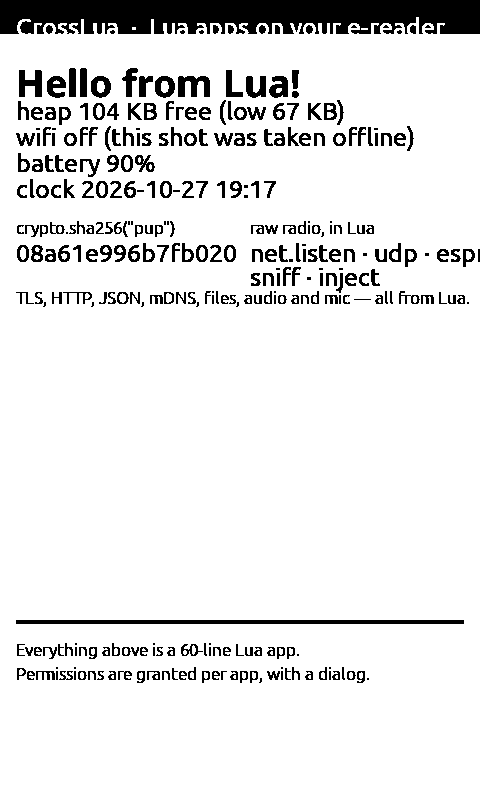
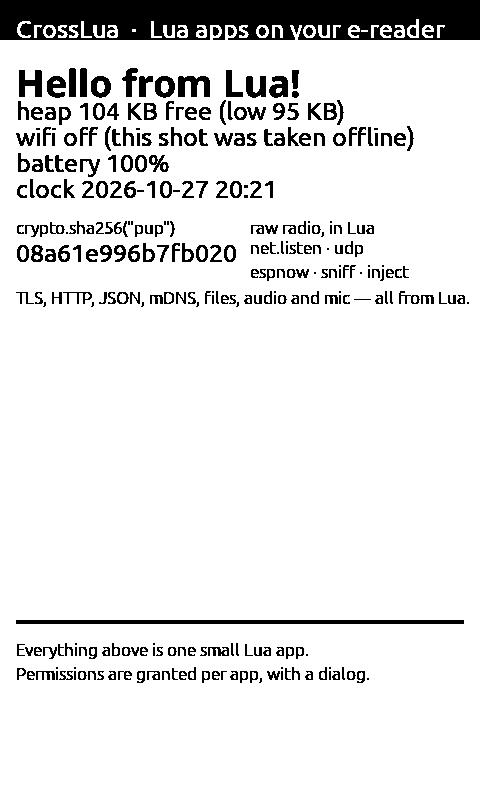
docs: README credits — add Grimoire (the Lua precedent, no license file), drop the nano² mention
Grimoire (SynnBunn/Grimoire) is what proved Lua belongs on this hardware; our net.* surface targets Grimoire parity and we ship a
pure-Lua compat shim. It has no license file: inspiration only, no code copied. The nano² bullet was wrong — that binding was never
committed (no lock_status anywhere in git history, no files on disk); removed. The demo app screenshot is re-shot with the right
column in the small font (the ui12 lines ran to the screen edge) and a taller header band.

diff --git a/src/activities/plugins/LuaAppActivity.cpp b/src/activities/plugins/LuaAppActivity.cpp
@@ -8,6 +8,7 @@
 #include <Microphone.h>
 #include <atomic>
 #include <esp_now.h>
+#include <esp_sleep.h>
 #include <esp_timer.h>
 #include <esp_wifi.h>
 #include <SecureClient.h>
@@ -264,6 +265,30 @@ class LuaAppActivity::Backend final : public crosslua::Backend {
 
   uint32_t millis() override { return ::millis(); }
   size_t radioFloorBytes() override { return radioEverStarted_ ? 48 * 1024 : 80 * 1024; }
+  const char* wakeCause() override {
+    switch (wakeCause_) {
+      case ESP_SLEEP_WAKEUP_TIMER: return "timer";
+      case ESP_SLEEP_WAKEUP_EXT0:
+      case ESP_SLEEP_WAKEUP_EXT1:
+      case ESP_SLEEP_WAKEUP_GPIO: return "button";
+      case ESP_SLEEP_WAKEUP_UNDEFINED: return "power-on";
+      default: return "other";
+    }
+  }
+  bool systemSleep(int seconds, char* err, size_t errCap) override {
+    // Arm the timer wake, then hand over to upstream's own sleep flow (sleep screen, plugin events, WiFi teardown, rail
+    // power-down, power-button wake): ONE code path for every sleep, ours just also wakes on time. Read-only use of the
+    // existing main.cpp entry point; the call never returns on the device.
+    g_radioUsedThisSession = true;  // the wake reboot is the same defragmenting reboot every radio app gets
+    if (esp_sleep_enable_timer_wakeup(static_cast<uint64_t>(seconds) * 1000000ULL) != ESP_OK) {
+      snprintf(err, errCap, "could not arm the timer wake");
+      return false;
+    }
+    extern void enterDeepSleep(bool fromTimeout);
+    enterDeepSleep(false);
+    snprintf(err, errCap, "the device refused to enter deep sleep");
+    return false;
+  }
   size_t freeHeap() override { return HalMemory::getInternalHeap().freeBytes; }
   size_t freeHeapQuick() override { return ESP.getFreeHeap(); }  // O(1); getInternalHeap() also walks for the largest block
   size_t minFreeHeap() override { return HalMemory::getInternalHeap().minFreeBytes; }
@@ -1856,6 +1881,7 @@ class LuaAppActivity::Backend final : public crosslua::Backend {
   bool espnowReq_ = false;  // manifest asked for "espnow" (effective only after approval)
   bool monitorReq_ = false; // manifest asked for "monitor" (effective only after approval)
   bool txReq_ = false;      // manifest asked for "tx" (effective only after approval)
+  esp_sleep_wakeup_cause_t wakeCause_ = ESP_SLEEP_WAKEUP_UNDEFINED;  // what woke the previous cycle, read once at start
   struct Grant {
     std::string rel;
     bool write;
@@ -1871,7 +1897,8 @@ class LuaAppActivity::Backend final : public crosslua::Backend {
 // ---------------------------------------------------------------------------
 LuaAppActivity::LuaAppActivity(GfxRenderer& renderer, MappedInputManager& mappedInput, std::string appName,
                                std::string appDir)
-    : Activity("LuaApp", renderer, mappedInput), appName_(std::move(appName)), appDir_(std::move(appDir)) {}
+    : Activity("LuaApp", renderer, mappedInput), appName_(std::move(appName)), appDir_(std::move(appDir)) {
+  wakeCause_ = esp_sleep_get_wakeup_cause();  // valid right after a deep-sleep wake; UNDEFINED on a normal reset}
 
 LuaAppActivity::~LuaAppActivity() = default;
 

diff --git a/src/lua/LuaApi.h b/src/lua/LuaApi.h
@@ -43,6 +43,11 @@ class Backend {
   virtual uint32_t millis() = 0;
   // RAM floor for starting a radio mode; lower after the first radio use in this app (the radio's RAM never fully returns).
   virtual size_t radioFloorBytes() { return 80 * 1024; }
+  // --- deep sleep: system.sleep(seconds) arms a timer wake (plus the power button) and enters the SAME upstream sleep flow
+  // (sleep screen, plugin events, rail power-down); the call never returns and the device reboots on wake. system.last_wake()
+  // reports what woke the previous cycle. No permission: the power button always wakes the device. ---
+  virtual const char* wakeCause() { return "power-on"; }  // "timer" | "button" | "power-on" | "other"
+  virtual bool systemSleep(int seconds, char* err, size_t errCap) = 0;  // true = armed and entering sleep (never returns on device)
   virtual size_t freeHeap() = 0;
   // Cheap free-RAM read for the allocator guard (runs on every growing allocation); defaults to freeHeap().
   virtual size_t freeHeapQuick() { return freeHeap(); }

diff --git a/README.md b/README.md
@@ -44,13 +44,14 @@ upstream files touched: [`docs/lua/UPSTREAM_TOUCHPOINTS.md`](docs/lua/UPSTREAM_T
 
 - **[CrossPoint Reader](https://github.com/crosspoint-reader/crosspoint-reader)** (upstream, MIT © 2025 CrossPoint Reader
   organization) — this fork's entire foundation: firmware, UI, plugin system, dev serial channel.
+- **[Grimoire](https://github.com/SynnBunn/Grimoire)** (no license file — inspiration only, no code copied) — the minimal
+  Lua-scriptable firmware that proved Lua belongs on this hardware; our `net.*` surface targets Grimoire parity and ships with a
+  pure-Lua compatibility shim for its spells.
 - **[biscuit](https://github.com/DaveAllie/biscuit)** (MIT © 2025 Dave Allie) — the reference for how to build network apps on
   this hardware; our socket/HTTP semantics and the poll-don't-callback radio design follow its patterns.
 - **[crossplay](https://github.com/crosspoint-reader/crossplay)** (MIT © 2025 CrossPoint Reader organization) — source of the
   ESP-NOW radio sequence (`LinkRadio`) our `espnow.*` and `wifi.tx` backends mirror.
 - **freeink-sdk** (MIT © 2026 FreeInk) — hardware drivers behind `device.*`, `audio.*`, `mic.*`; linked read-only.
-- The nano² smart-lock binding reimplements two calls from the lock vendor's SDK, which **ships without a license file** —
-  treat that part as proprietary and don't redistribute it.
 
 ---
 
